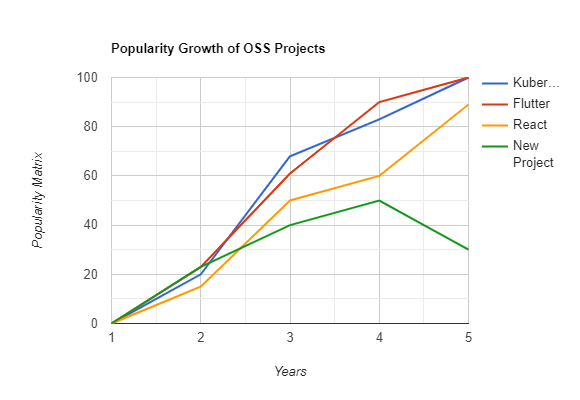
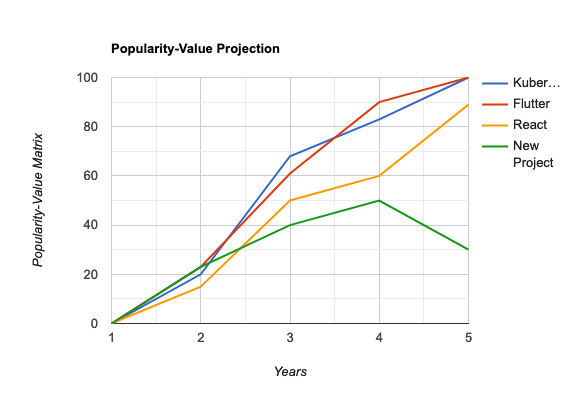
finished metric

diff --git a/metrics/Value-PopularityMetric.md b/metrics/Value-PopularityMetric.md
@@ -14,19 +14,21 @@ The metric will give contributors a look at multiple project popularities that c
 
 Project popularity will be determined based on a number of factors:  
 * Number of contributors  
-* Forks  
+* Contributions
+* Pull requests
+* Forks
 * Aggregation of online discussion
 * Factors from BOSS Index:  
 	* Google score  
 	* Job postings    
 
-Using past successful projects as a baseline, differing weight values will be attributed to the factors of this metric to provide the most accurate portrait of project popularity.
+Using past successful projects as a baseline, differing weight values will be attributed to the factors of this metric to provide the most accurate portrait of project popularity, aka the popularity-value matrix. 
 
-These projects would include: Kubernetes, Flutter, React, and Tensorflow among others. These projects seem to have been able to grow into modern technology solutions and proficiency in these applications will no doubt be seen as lucrative to potential employers. 
+Some of the projects for this analysis would include: Kubernetes, Flutter, React, and Tensorflow among others. These projects seem to have been able to grow into modern technology solutions and proficiency in these applications will no doubt be seen as lucrative to potential employers. 
 
 Augur currently tracks many different metrics that span periods of time. By visualizing the different factors listed above with these metrics over the period of time of their infancy to evolution you can correlate data points that support which factors will matter more than others as to the eventual adoption and potential success of a project.
 
-Once that corellation is obtained, you can apply the weighted factors to newer OSS projects to have a better look at which projects will be potentially influential in the coming months/years. 
+Once that corellation is obtained, you can apply the weighted factors to newer OSS projects to have a better look at which projects will be potentially influential in the coming months/years, and pursue involvement in those that will provide the greatest opportunity for a living wage. 
 
 ### Filters  
 * Projects that have a TBD number upswing in forks of their repo
@@ -40,14 +42,16 @@ Once that corellation is obtained, you can apply the weighted factors to newer O
 <img src="images/popularity-bar-graph.png">
 
 
-### Tools Providing the Metric (optional)  
+### Tools Providing the Metric 
+[Augur](http://github.com/chaoss/augur) can be used to pull many different metrics that would be useful in calculating an appropriate popularity-value matrix
+[Grimoirelab](http://github.com/chaoss/grimoirelab) also provides metrics and tools to fashion those into visualizations that make the data far more presentable and understandable to users who are seeking value projects. 
 
 
 
-
-### Data Collection Strategies (Optional)  
-* 
-* (I know this will be removed, wanted to add a talking point) Make a coordinated effort within CHAOSS to present a feature request to GitHub. If projects had "feature request" functionality, instead of treating everything as an 'issue', many different CHAOSS metrics would be able to utilize that data. Instead of a few different people submitting a request to GitHub, make it a concerted effort and present a formal paper with explaination and examples of how that data could only improve OSS metrics, thus their health, which only supports GitHub in the longer term. The text entry portion of the GitHub contact page, doesn't seem to have a word limit, or send using industry contacts.
+### Data Collection Strategies  
+* Many CHAOSS metrics are currently obtaining the data necessary for this metric, and using their already established data collection tools will provide the information required.
+* Pull the Google Score as displayed in the BOSS Index to use the search activity of a project in the calculation of the metric
+* (I know this will be removed, wanted to add a talking point) Make a coordinated effort within CHAOSS to present a feature request to GitHub. If projects had "feature request" functionality, instead of treating everything as an 'issue', many different CHAOSS metrics would be able to utilize that data. Instead of a few different people submitting a request to GitHub, make it a concerted effort and present a formal paper with explaination and examples of how that data could only improve OSS metrics, thus their health, which only supports GitHub in the longer term. The text entry portion of the GitHub contact page doesn't seem to have a word limit, so that could be an avenue of submission, or more preferably send using industry contacts or conferences.
 
 
 
